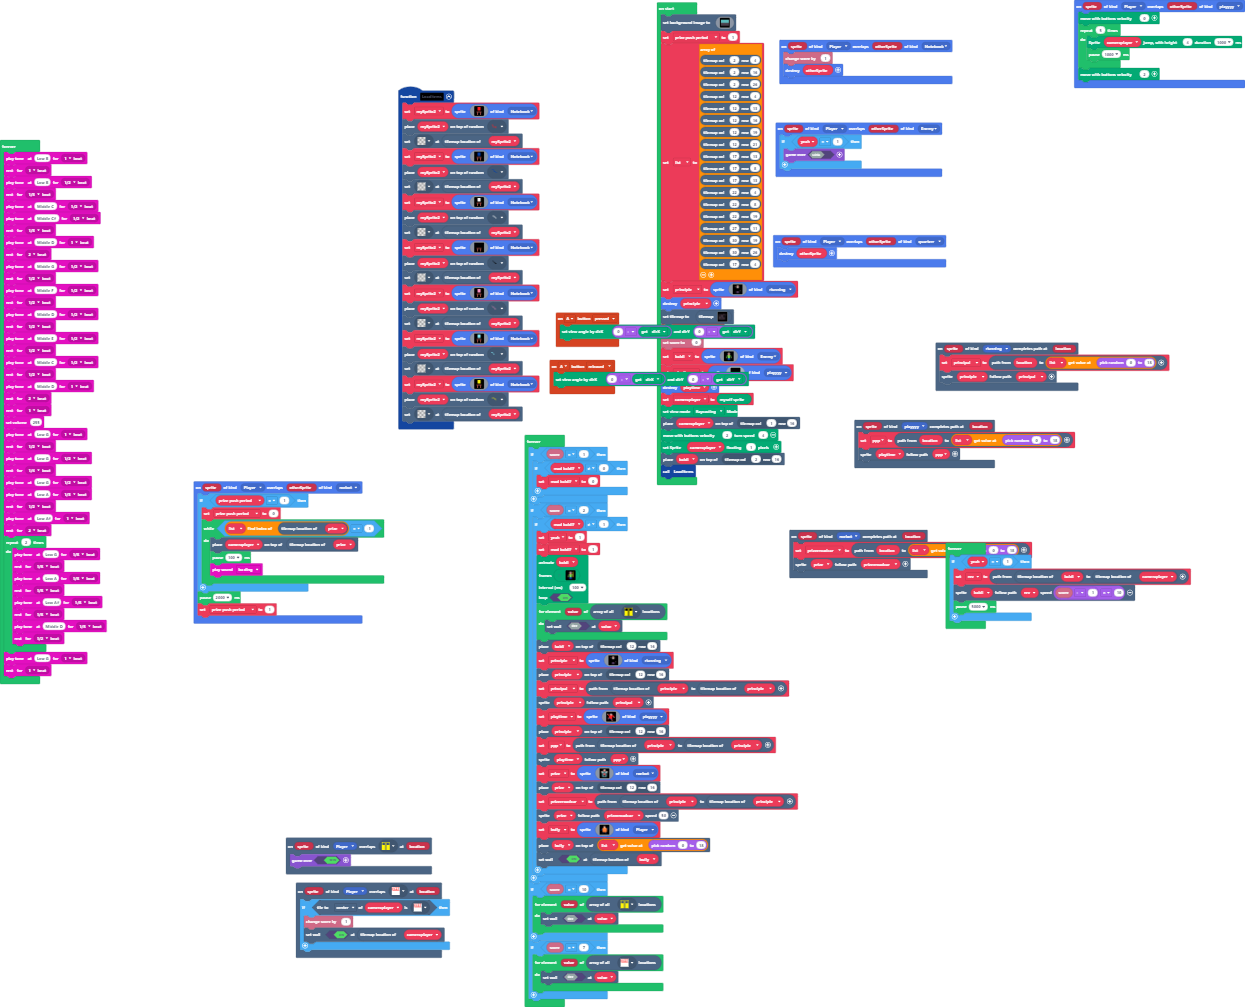
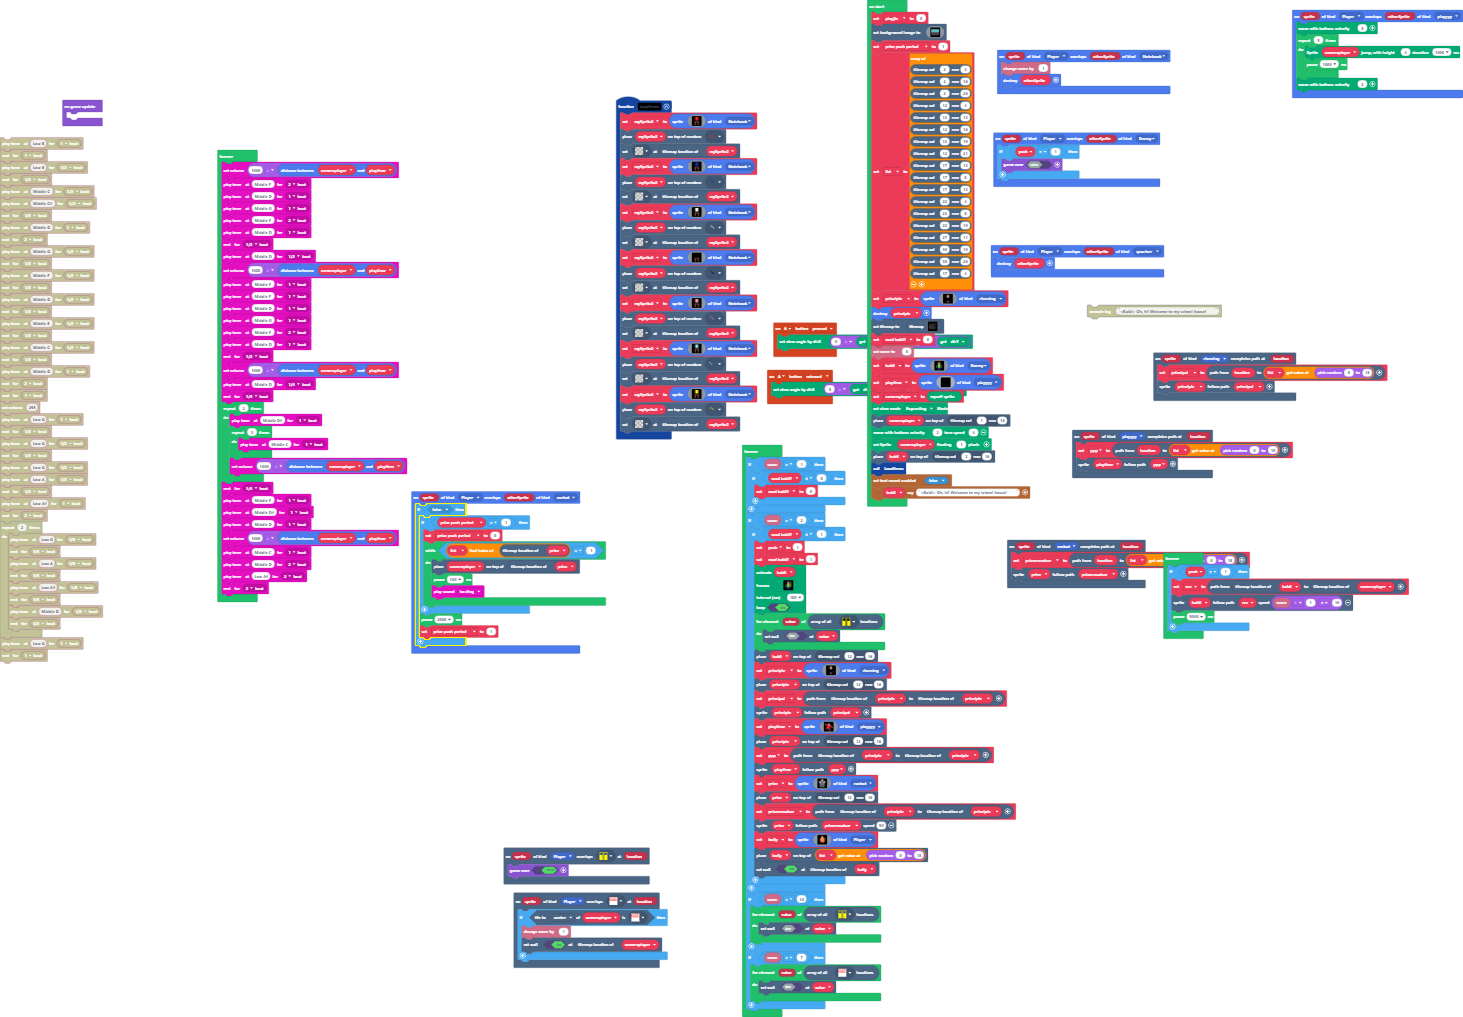
Update pxt.json, main.blocks, main.ts

diff --git a/main.ts b/main.ts
@@ -18,16 +18,18 @@ scene.onOverlapTile(SpriteKind.Player, assets.tile`myTile19`, function (sprite, 
     }
 })
 sprites.onOverlap(SpriteKind.Player, SpriteKind.roebot, function (sprite, otherSprite) {
-    if (prize_push_period == 1) {
-        prize_push_period = 0
-        while (list.indexOf(prize.tilemapLocation()) == -1) {
-            tiles.placeOnTile(cameraplayer, prize.tilemapLocation())
-            pause(100)
-            music.baDing.play()
+    if (false) {
+        if (prize_push_period == 1) {
+            prize_push_period = 0
+            while (list.indexOf(prize.tilemapLocation()) == -1) {
+                tiles.placeOnTile(cameraplayer, prize.tilemapLocation())
+                pause(100)
+                music.baDing.play()
+            }
         }
+        pause(2000)
+        prize_push_period = 1
     }
-    pause(2000)
-    prize_push_period = 1
 })
 controller.A.onEvent(ControllerButtonEvent.Pressed, function () {
     Render.setViewAngle(0 - Render.getAttribute(Render.attribute.dirX), 0 - Render.getAttribute(Render.attribute.dirY))
@@ -221,6 +223,7 @@ let playtime: Sprite = null
 let principle: Sprite = null
 let list: tiles.Location[] = []
 let prize_push_period = 0
+let playjin = 0
 scene.setBackgroundImage(img`
     9999999999999999999999999999999999999999999999999999999999999999999999999999999999999999999999999999999999999999999999999999999999999999999999999999999999999999
     9999999999999999999999999999999999999999999999999999999999999999999999999999999999999999999999999999999999999999999999999999999999999999999999999999999999999999
@@ -422,7 +425,6 @@ playtime = sprites.create(img`
     . . . . . . . . . . . . . . . 
     . . . . . . . . . . . . . . . 
     `, SpriteKind.playyyy)
-playtime.destroy()
 cameraplayer = Render.getRenderSpriteVariable()
 Render.setViewMode(ViewMode.raycastingView)
 tiles.placeOnTile(cameraplayer, tiles.getTileLocation(1, 16))
@@ -430,51 +432,47 @@ Render.moveWithController(2, 4)
 Render.setZOffset(cameraplayer, 1)
 tiles.placeOnTile(baldi, tiles.getTileLocation(2, 16))
 Loaditems()
+story.setSoundEnabled(false)
+story.spriteSayText(baldi, "<Baldi> Oh, hi! Welcome to my school house!")
+game.onUpdate(function () {
+	
+})
 forever(function () {
-    music.playTone(247, music.beat(BeatFraction.Whole))
-    music.rest(music.beat(BeatFraction.Whole))
-    music.playTone(247, music.beat(BeatFraction.Half))
-    music.rest(music.beat(BeatFraction.Triplet))
-    music.playTone(262, music.beat(BeatFraction.Half))
-    music.playTone(277, music.beat(BeatFraction.Half))
-    music.rest(music.beat(BeatFraction.Triplet))
+    music.setVolume(1000 - spriteutils.distanceBetween(cameraplayer, playtime))
+    music.playTone(349, music.beat(BeatFraction.Double))
     music.playTone(294, music.beat(BeatFraction.Whole))
-    music.rest(music.beat(BeatFraction.Double))
-    music.playTone(392, music.beat(BeatFraction.Half))
-    music.rest(music.beat(BeatFraction.Half))
-    music.playTone(349, music.beat(BeatFraction.Half))
+    music.playTone(392, music.beat(BeatFraction.Whole))
+    music.playTone(349, music.beat(BeatFraction.Double))
+    music.playTone(294, music.beat(BeatFraction.Whole))
     music.rest(music.beat(BeatFraction.Half))
     music.playTone(294, music.beat(BeatFraction.Half))
-    music.rest(music.beat(BeatFraction.Half))
-    music.playTone(330, music.beat(BeatFraction.Half))
-    music.rest(music.beat(BeatFraction.Half))
-    music.playTone(262, music.beat(BeatFraction.Half))
-    music.rest(music.beat(BeatFraction.Half))
+    music.setVolume(1000 - spriteutils.distanceBetween(cameraplayer, playtime))
+    music.playTone(349, music.beat(BeatFraction.Whole))
+    music.playTone(349, music.beat(BeatFraction.Whole))
     music.playTone(294, music.beat(BeatFraction.Whole))
-    music.rest(music.beat(BeatFraction.Double))
-    music.rest(music.beat(BeatFraction.Whole))
-    music.setVolume(255)
-    music.playTone(196, music.beat(BeatFraction.Whole))
+    music.playTone(392, music.beat(BeatFraction.Whole))
+    music.playTone(349, music.beat(BeatFraction.Double))
+    music.playTone(294, music.beat(BeatFraction.Whole))
     music.rest(music.beat(BeatFraction.Half))
-    music.playTone(196, music.beat(BeatFraction.Half))
-    music.rest(music.beat(BeatFraction.Quarter))
-    music.playTone(196, music.beat(BeatFraction.Half))
-    music.playTone(220, music.beat(BeatFraction.Triplet))
-    music.rest(music.beat(BeatFraction.Half))
-    music.playTone(233, music.beat(BeatFraction.Whole))
-    music.rest(music.beat(BeatFraction.Double))
+    music.setVolume(1000 - spriteutils.distanceBetween(cameraplayer, playtime))
+    music.playTone(294, music.beat(BeatFraction.Quarter))
+    music.rest(music.beat(BeatFraction.Triplet))
     for (let index = 0; index < 2; index++) {
-        music.playTone(196, music.beat(BeatFraction.Eighth))
-        music.rest(music.beat(BeatFraction.Eighth))
-        music.playTone(220, music.beat(BeatFraction.Eighth))
-        music.rest(music.beat(BeatFraction.Eighth))
-        music.playTone(233, music.beat(BeatFraction.Eighth))
-        music.rest(music.beat(BeatFraction.Eighth))
-        music.playTone(294, music.beat(BeatFraction.Eighth))
-        music.rest(music.beat(BeatFraction.Half))
+        music.playTone(311, music.beat(BeatFraction.Whole))
+        for (let index = 0; index < 3; index++) {
+            music.playTone(262, music.beat(BeatFraction.Whole))
+        }
+        music.setVolume(1000 - spriteutils.distanceBetween(cameraplayer, playtime))
     }
-    music.playTone(196, music.beat(BeatFraction.Whole))
-    music.rest(music.beat(BeatFraction.Whole))
+    music.rest(music.beat(BeatFraction.Quarter))
+    music.playTone(349, music.beat(BeatFraction.Whole))
+    music.playTone(311, music.beat(BeatFraction.Whole))
+    music.playTone(294, music.beat(BeatFraction.Whole))
+    music.setVolume(1000 - spriteutils.distanceBetween(cameraplayer, playtime))
+    music.playTone(262, music.beat(BeatFraction.Whole))
+    music.playTone(294, music.beat(BeatFraction.Double))
+    music.playTone(233, music.beat(BeatFraction.Double))
+    music.rest(music.beat(BeatFraction.Double))
 })
 forever(function () {
     if (info.score() == 1) {
